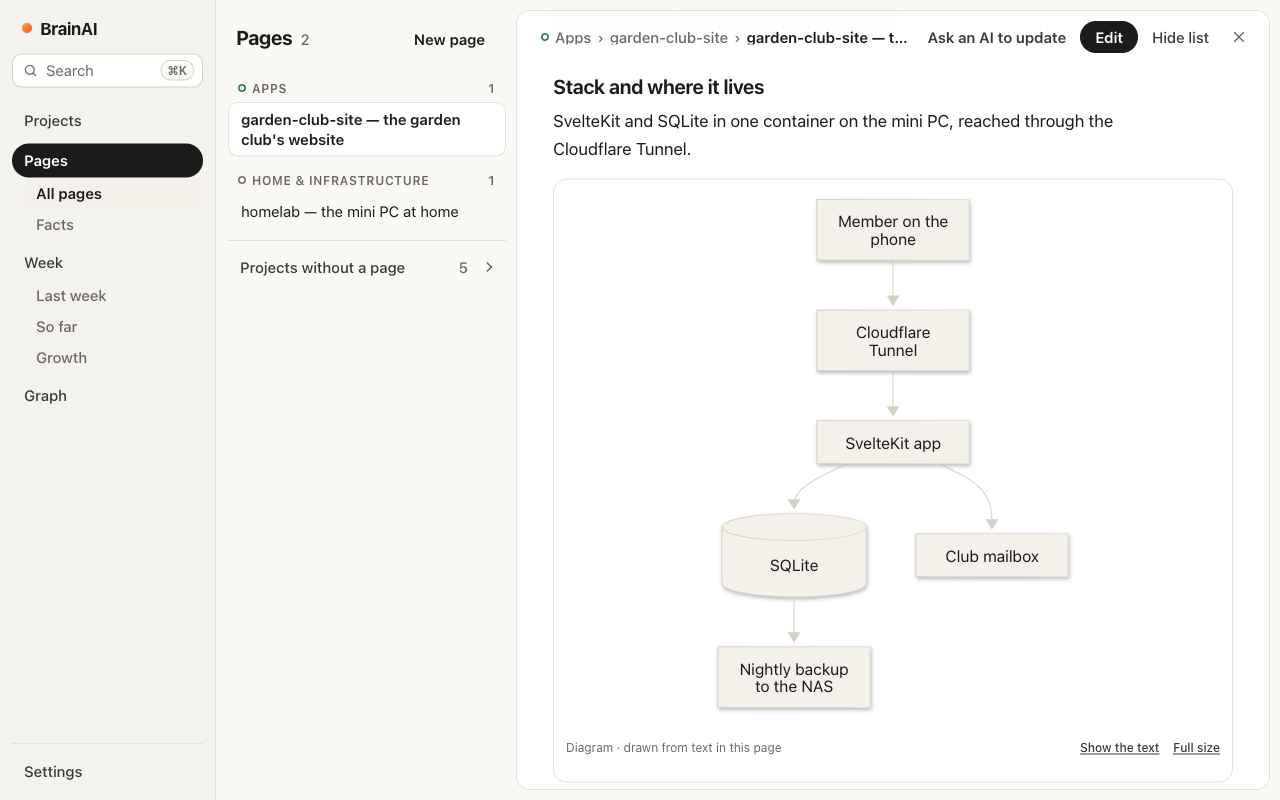
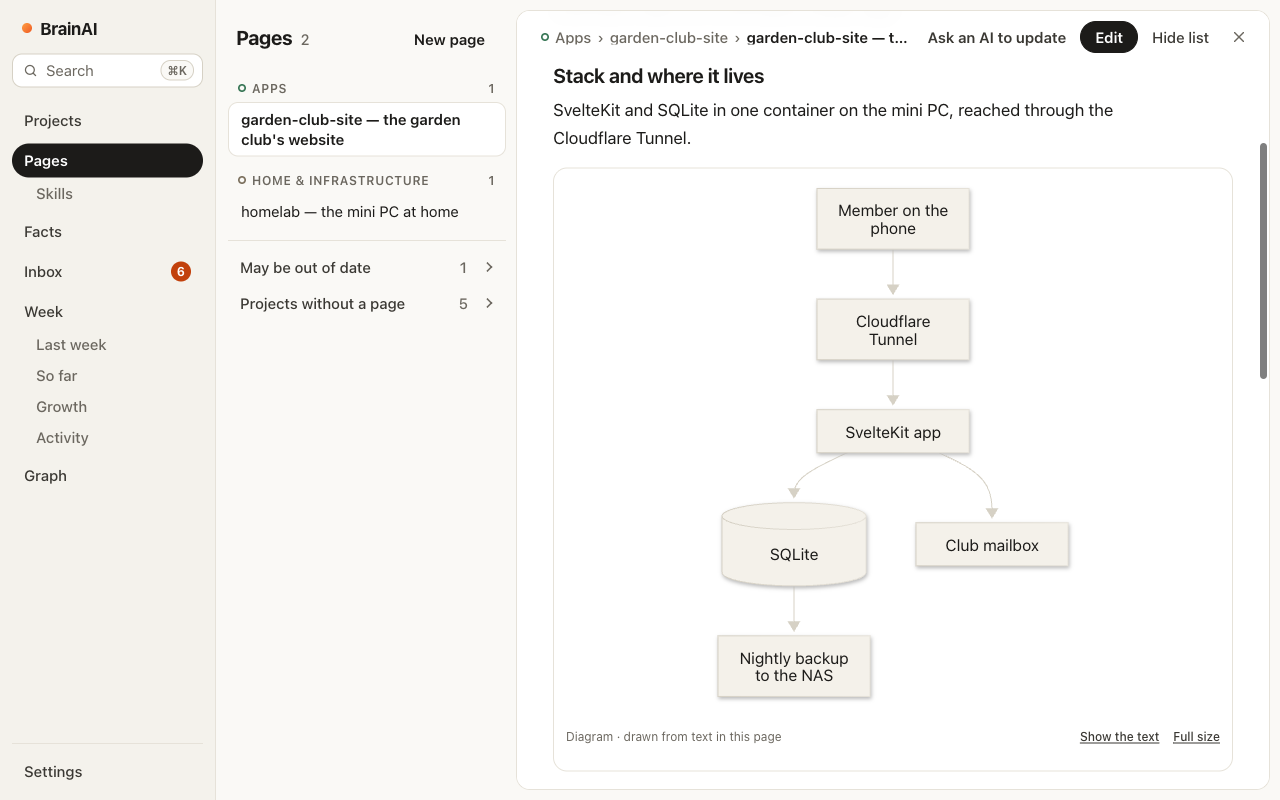
BrainAI docs 2026-11-18

diff --git a/README.md b/README.md
@@ -27,7 +27,7 @@ server later without losing a memory.
 | **A cloud server** | The same, without a machine at home | A small rented Linux server, Docker, a domain on Cloudflare | `docs/CLOUD.md` |
 
 - **Your computer:** the app runs BrainAI with no server, no domain and no password, and connects Claude Code,
-  Codex, OpenCode, Cursor and Claude's desktop app in one click each. *Reach from phone and web* adds a public address (through Tailscale,
+  Codex, OpenCode, Cursor and Claude's desktop app in one click each (with save reminders where the tool allows). *Reach from phone and web* adds a public address (through Tailscale,
   or your own domain on Cloudflare) while the Mac is on. The Mac app is about 281 MiB: it does not carry the search
   models. On first run it suggests models for your computer and downloads the ones you pick (change them later in
   Settings › Search). It tells you when a new version is out and updates itself when you say so.
@@ -46,21 +46,31 @@ server later without losing a memory.
   OpenCode on your computer. Each connects with OAuth, and you choose what it may do.
 - **One-install plugin for Claude Code:** `claude plugin marketplace add jsr1292/brainai`, then
   `claude plugin install brainai@brainai-plugins` (`docs/CLIENTS.md`, "Install as a plugin").
-- **Recall by meaning,** in several languages, with a briefing per project: its statuses, decisions and roadmap in
-  one call. A small local model reorders each search's first matches so the best answer comes first. Projects can
+- **Recall by meaning,** in several languages, with a briefing per project: its statuses, decisions, roadmap and pages
+  in one call. A small local model reorders each search's first matches so the best answer comes first. Projects can
   have nicknames, and an assistant can send an English version of a question asked in another language. How well it
-  finds things is measured on the public LoCoMo test (`docs/BENCHMARK.md`).
+  finds things is measured on two public tests, LoCoMo and LongMemEval, retrieval only (`docs/BENCHMARK.md`).
+- **Facts that say how long they hold and where they came from.** An assistant can mark a fact as valid until a date
+  (a deadline, a version, who holds a job): every assistant then sees when it is past its date. Each fact can say
+  whether you said it or an assistant inferred it, and who recorded that, so an assistant's claim never reads as your
+  own words.
 - **You approve what matters.** Changes to your profile, and memories that read like instructions to an assistant,
-  wait for you. What you delete stays deleted. Passwords and keys are refused.
-- **Disagreements come to you.** When an assistant sees two saved facts that can't both be true, it flags them and
-  you pick the one that is right; until then every assistant is told they are not settled.
-- **The dashboard:** projects and their pages, a weekly review of what moved, brain health (how up to date and ready
-  the brain is, and what waits on you), tidy-up suggestions for memories that are stale or duplicated, pictures and
-  diagrams in pages.
+  wait for you in one Inbox, grouped, with Undo. What you delete stays deleted. Passwords and keys are refused.
+- **You see and control what assistants do.** Activity lists what each assistant saved, changed or deleted, with Undo
+  on each fact. "Saves wait for me" holds one assistant's saves for your approval; "Pause all saves" stops them all.
+- **Nothing gets lost at the end of a session.** Save reminders for Claude Code, Codex and Cursor, and a harvest
+  skill: an assistant sends what a session decided in one batch, which waits in your Inbox until you approve it.
+- **Memory that stays tidy.** Ask an assistant to tidy a project: it proposes merging, replacing or moving old
+  decisions into the project's page, and you approve each one. Tidy-up suggestions flag what is stale, duplicated or
+  past its date. When two facts can't both be true, you pick the one that is right.
+- **Bring what you already have.** Paste what ChatGPT, Claude or Gemini remember about you and tick what to keep, let a
+  coding assistant propose facts from your project folders, or add a Markdown file as a page.
+- **The dashboard:** projects and their pages, a weekly review of what moved, brain health, pictures and diagrams in
+  pages, on a computer or a phone.
 - **Discussions:** ask several assistants the same question and let them answer each other in rounds.
 - **Shared skills:** share a skill from one computer and your other assistants can load it.
 - **Backups that leave the house:** nightly snapshots to your other drives, a nightly Markdown export into git, and a
-  weekly encrypted copy in the cloud.
+  weekly encrypted copy in the cloud. In the app, Back up now and a second folder of your choice.
 - **You can leave any time, with everything:** one saved folder with every memory, readable and ready to bring back.
 
 ## A look around
@@ -71,8 +81,10 @@ The screenshots show a sample brain with made-up projects (`npm run demo:seed`, 
 |---|---|
 | ![A project page with a diagram drawn from text](docs/images/page.png) | ![The week review: what moved, what was decided, what waits on you](docs/images/week.png) |
 | **Pages** keep what a project is and how it runs, with diagrams drawn from text. | **The week** shows what moved on each roadmap, what was decided and by which assistant. |
-| ![The graph of projects, grouped by area](docs/images/graph.png) | ![Setting up Claude Code: the address, the setup text and a live check](docs/images/connect.png) |
-| **The graph** places every project by area, with the threads between them. | **Connecting an app** takes three steps, and the page shows whether it worked. |
+| ![The Inbox: everything that waits for you, grouped](docs/images/inbox.png) | ![Activity: what each assistant saved or changed, with Undo](docs/images/activity.png) |
+| **The Inbox** holds what waits for you, grouped: approvals, harvested sessions, tidy proposals, disagreements. | **Activity** shows what each assistant saved or changed, day by day, with Undo. |
+| ![The graph of projects, grouped by area](docs/images/graph.png) | ![Connecting an assistant: the address, the setup text and a live check](docs/images/connect.png) |
+| **The graph** places every project by area, with the threads between them. | **Connecting an app** takes a few steps, and the page shows whether it worked. |
 
 ![The dashboard on a phone](docs/images/phone.png)
 
